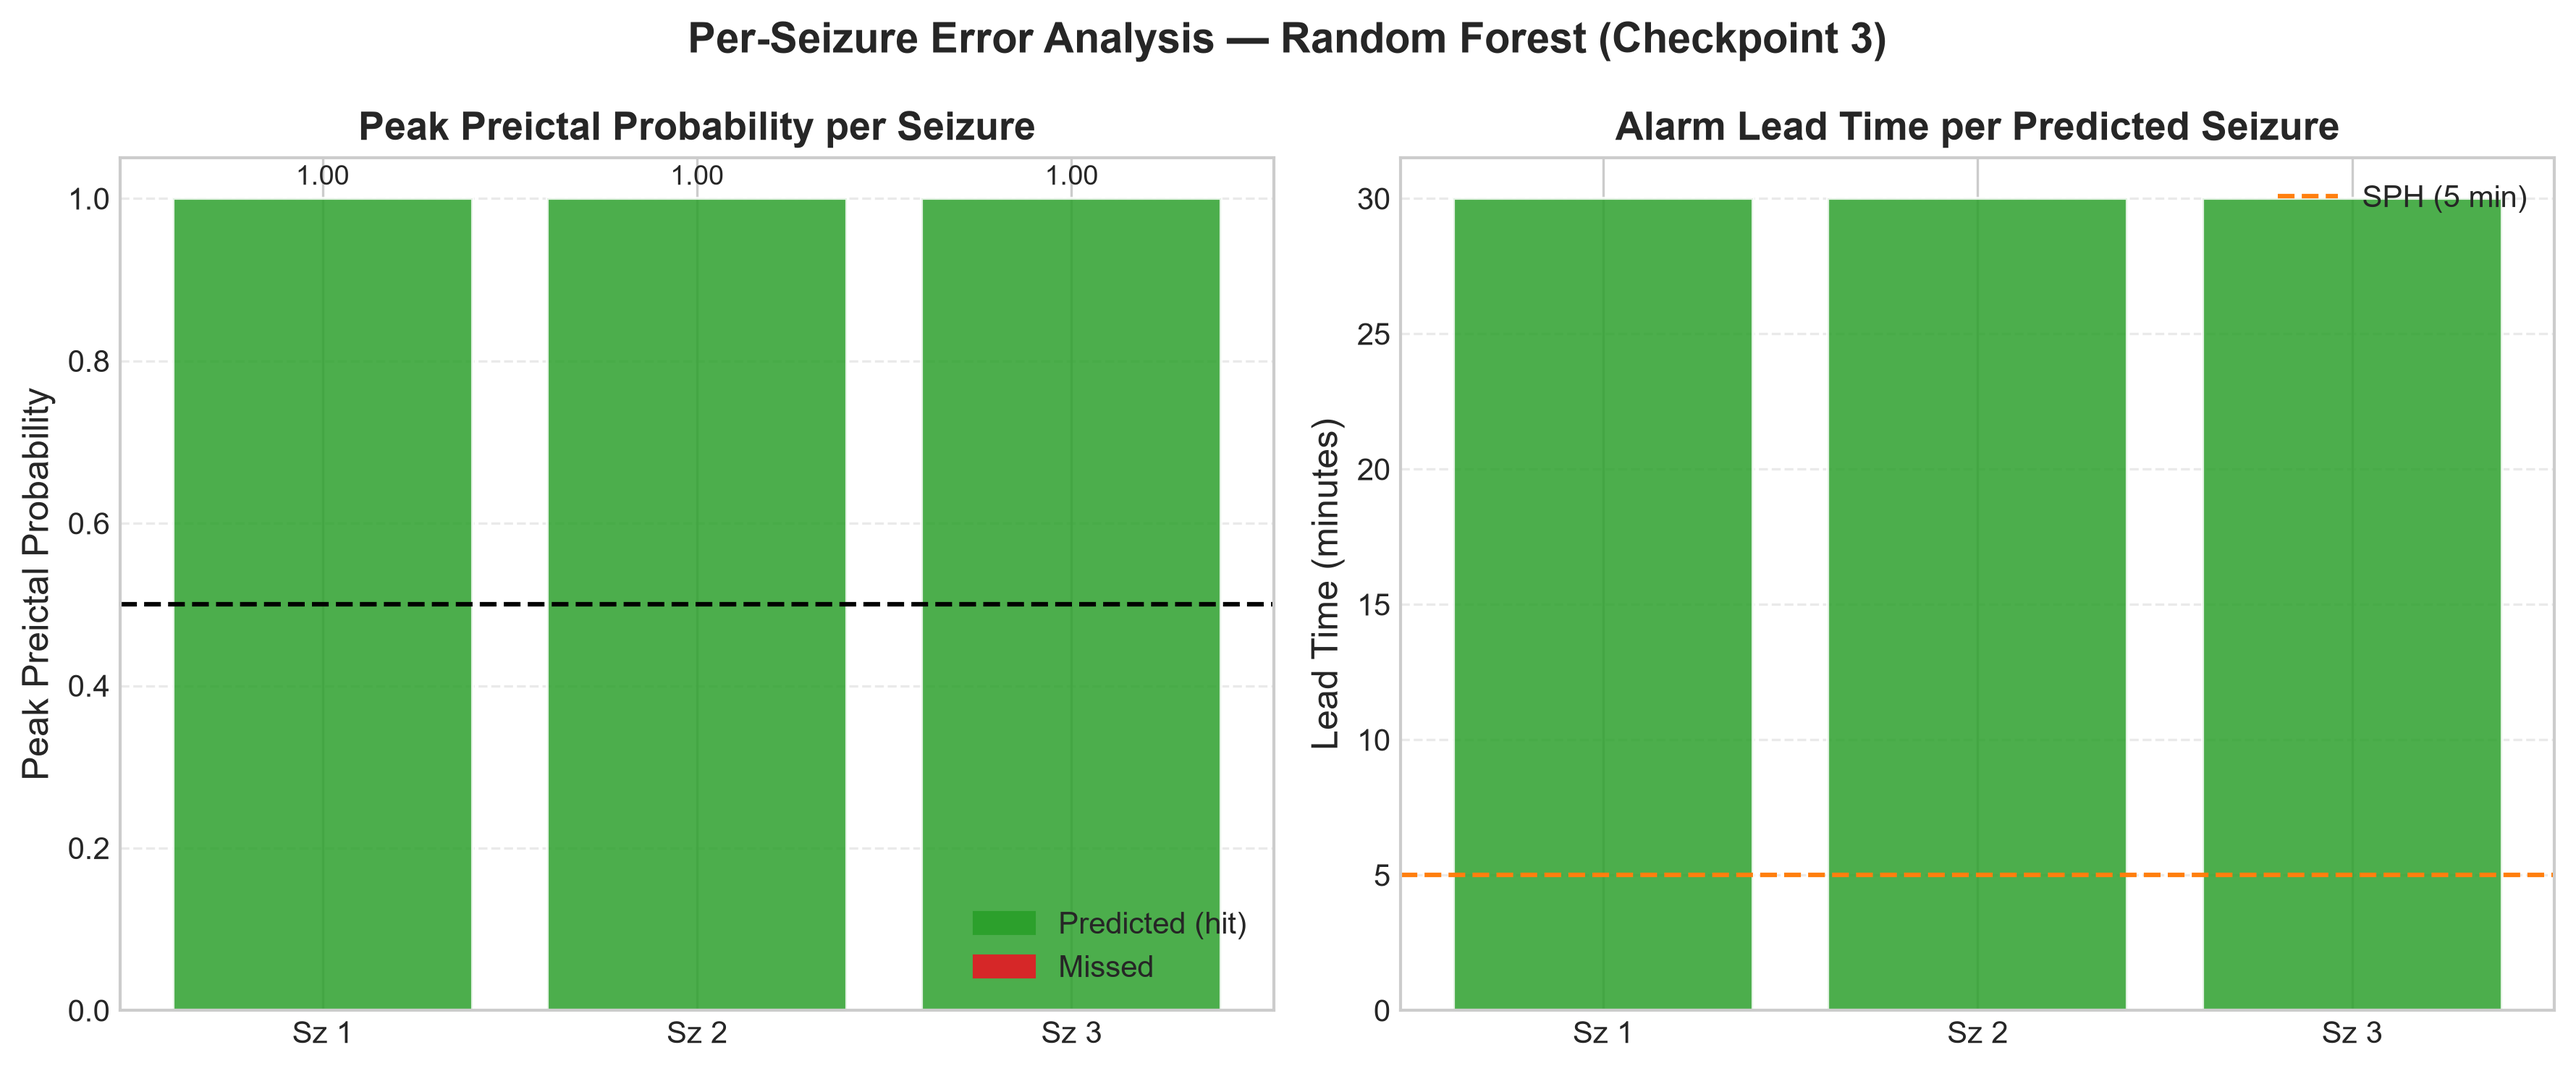
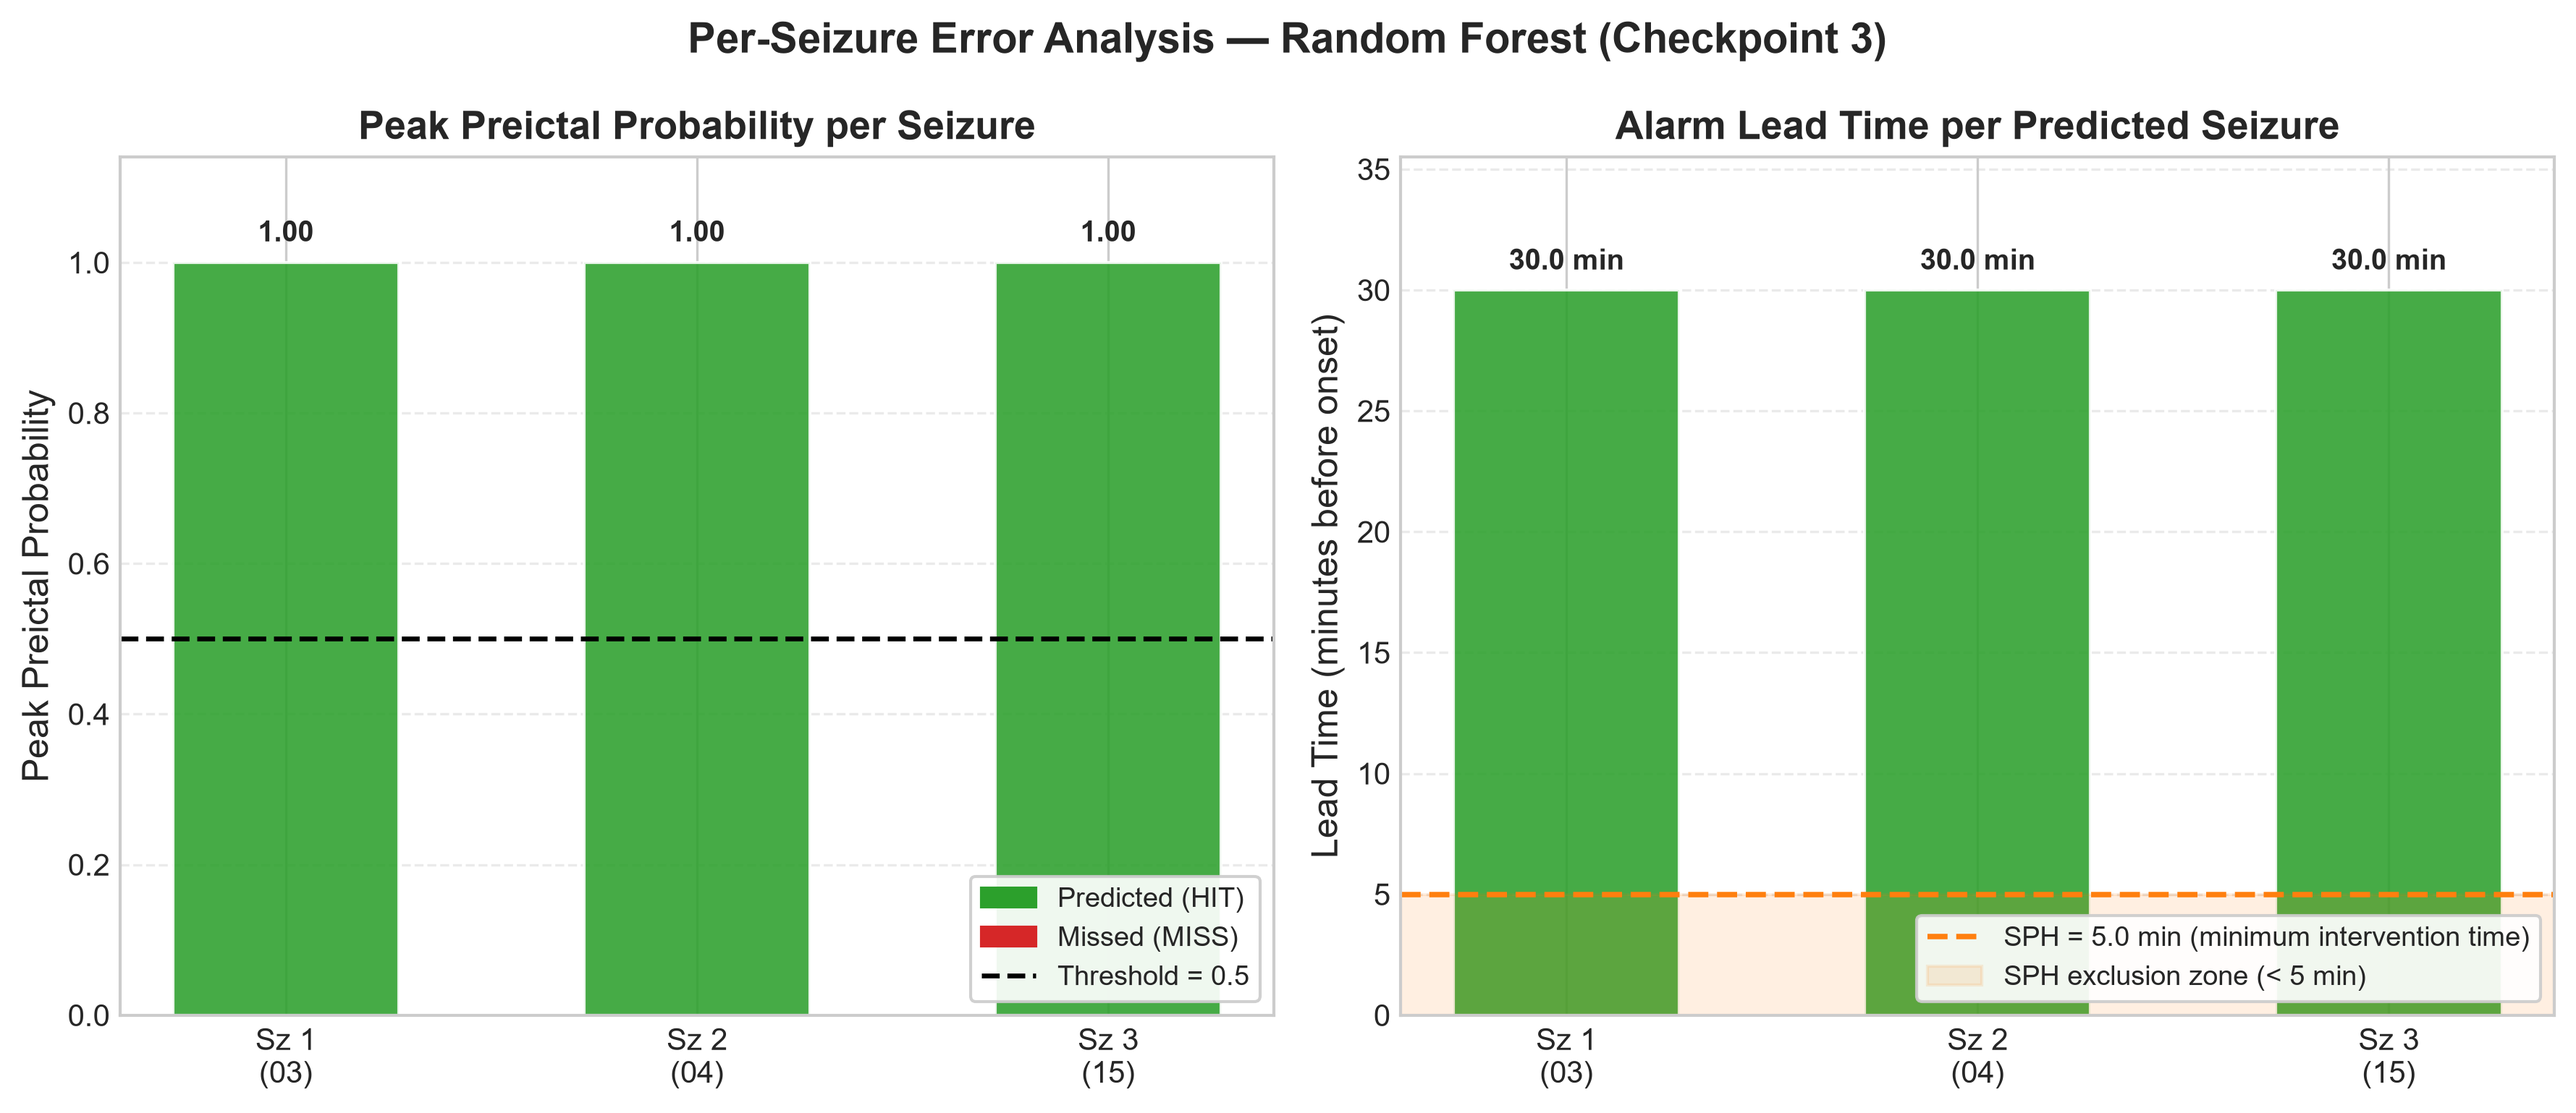
fix(cp3): fix ablation y-axis labels, lead-time histogram binning, and preictal alarm count

diff --git a/src/visualization/plots_cp3.py b/src/visualization/plots_cp3.py
@@ -58,8 +58,12 @@ def plot_per_seizure_breakdown(
     if n == 0:
         return
 
-    labels = [r['seizure_id'].split('_s')[-1] for r in per_seizure_results]
-    labels = [f"Sz {i+1}" for i, _ in enumerate(per_seizure_results)]
+    labels = []
+    for i, r in enumerate(per_seizure_results):
+        sid = r.get('seizure_id', '')
+        rec = sid.replace('chb01_', '').replace('_s0', '') if sid else f"Sz {i+1}"
+        labels.append(f"Sz {i+1}\n({rec})")
+
     peak_probs = [r['peak_preictal_prob'] for r in per_seizure_results]
     lead_times = [r['lead_time_min'] for r in per_seizure_results]
     predicted  = [r['predicted'] for r in per_seizure_results]
@@ -67,39 +71,45 @@ def plot_per_seizure_breakdown(
 
     x = np.arange(n)
 
-    fig, axes = plt.subplots(1, 2, figsize=(12, 5))
+    fig, axes = plt.subplots(1, 2, figsize=(12, 5.2))
     fig.suptitle(f"Per-Seizure Error Analysis — {model_name} (Checkpoint 3)", fontweight='bold')
 
     # Left: peak preictal probability
-    bars = axes[0].bar(x, peak_probs, color=colors, alpha=0.85, edgecolor='white')
-    axes[0].axhline(0.5, color='k', linestyle='--', lw=1.5, label='Threshold = 0.5')
+    bars = axes[0].bar(x, peak_probs, width=0.55, color=colors, alpha=0.88, edgecolor='white')
+    thresh_line = axes[0].axhline(0.5, color='k', linestyle='--', lw=1.6, label='Threshold = 0.5')
     axes[0].set_xticks(x)
     axes[0].set_xticklabels(labels)
     axes[0].set_ylabel("Peak Preictal Probability")
     axes[0].set_title("Peak Preictal Probability per Seizure", fontweight='bold')
-    axes[0].set_ylim(0, 1.05)
-    axes[0].legend()
+    axes[0].set_ylim(0, 1.14)
     axes[0].grid(True, linestyle='--', alpha=0.4, axis='y')
 
     for bar, v in zip(bars, peak_probs):
-        axes[0].text(bar.get_x() + bar.get_width() / 2, bar.get_height() + 0.01,
-                     f'{v:.2f}', ha='center', va='bottom', fontsize=9)
+        axes[0].text(bar.get_x() + bar.get_width() / 2, bar.get_height() + 0.02,
+                     f'{v:.2f}', ha='center', va='bottom', fontsize=9.5, fontweight='bold')
+
+    hit_patch  = mpatches.Patch(color='#2ca02c', label='Predicted (HIT)')
+    miss_patch = mpatches.Patch(color='#d62728', label='Missed (MISS)')
+    axes[0].legend(handles=[hit_patch, miss_patch, thresh_line],
+                   loc='lower right', frameon=True, facecolor='white', framealpha=0.92, fontsize=9)
 
     # Right: lead times (only for predicted)
     lead_vals = [lt if p else 0 for lt, p in zip(lead_times, predicted)]
     lt_colors = ['#2ca02c' if p else '#bbbbbb' for p in predicted]
-    bars2 = axes[1].bar(x, lead_vals, color=lt_colors, alpha=0.85, edgecolor='white')
-    axes[1].axhline(5, color='#ff7f0e', linestyle='--', lw=1.5, label='SPH (5 min)')
+    bars2 = axes[1].bar(x, lead_vals, width=0.55, color=lt_colors, alpha=0.88, edgecolor='white')
+    axes[1].axhline(5, color='#ff7f0e', linestyle='--', lw=1.8, label='SPH = 5.0 min (minimum intervention time)')
+    axes[1].axhspan(0, 5, color='#ff7f0e', alpha=0.12, label='SPH exclusion zone (< 5 min)')
     axes[1].set_xticks(x)
     axes[1].set_xticklabels(labels)
-    axes[1].set_ylabel("Lead Time (minutes)")
+    axes[1].set_ylabel("Lead Time (minutes before onset)")
     axes[1].set_title("Alarm Lead Time per Predicted Seizure", fontweight='bold')
-    axes[1].legend()
+    axes[1].set_ylim(0, max(35.5, max(lead_vals) * 1.18))
+    axes[1].legend(loc='lower right', frameon=True, facecolor='white', framealpha=0.92, fontsize=9)
     axes[1].grid(True, linestyle='--', alpha=0.4, axis='y')
 
-    hit_patch  = mpatches.Patch(color='#2ca02c', label='Predicted (hit)')
-    miss_patch = mpatches.Patch(color='#d62728', label='Missed')
-    axes[0].legend(handles=[hit_patch, miss_patch], loc='lower right')
+    for bar, v in zip(bars2, lead_vals):
+        axes[1].text(bar.get_x() + bar.get_width() / 2, bar.get_height() + 0.6,
+                     f'{v:.1f} min', ha='center', va='bottom', fontsize=9.5, fontweight='bold')
 
     plt.tight_layout()
     _save_or_show(fig, output_path)
@@ -122,16 +132,40 @@ def plot_lead_time_histogram(
     if not lead_times:
         return
 
-    fig, ax = plt.subplots(figsize=(8, 5))
+    fig, ax = plt.subplots(figsize=(8.5, 5))
 
-    ax.hist(lead_times, bins=max(5, len(lead_times) // 2),
-            color='#2ca02c', alpha=0.8, edgecolor='white', label='Lead Time (min)')
-    ax.axvline(sph_min, color='#d62728', linestyle='--', lw=2,
-               label=f'SPH = {sph_min} min (clinically required minimum)')
-    ax.axvline(lead_time_stats.get('mean_lead_time_min', 0),
-               color='#1f77b4', linestyle='-', lw=2,
-               label=f"Mean = {lead_time_stats.get('mean_lead_time_min', 0):.1f} min")
+    # Explicit clinical 2-minute bins centered on even values (e.g., [29, 31] centered at 30.0 min)
+    bins = np.arange(1.0, 35.0, 2.0)
+    counts, edges, patches = ax.hist(
+        lead_times, bins=bins, rwidth=0.82,
+        color='#2ca02c', alpha=0.85, edgecolor='white', linewidth=1.2,
+        label='Predicted Seizures (Lead Time)', zorder=3
+    )
 
+    ax.axvspan(0, sph_min, color='#d62728', alpha=0.10, label=f'SPH Exclusion Zone (< {sph_min:.0f} min)')
+    ax.axvspan(sph_min, 35, color='#2ca02c', alpha=0.05, label=f'Actionable SOP Window ({sph_min:.0f}–35 min)')
+    ax.axvline(sph_min, color='#d62728', linestyle='--', lw=2.0,
+               label=f'SPH = {sph_min:.1f} min (clinically required minimum)', zorder=4)
+
+    mean_lt = float(lead_time_stats.get('mean_lead_time_min', np.mean(lead_times)))
+    ax.axvline(mean_lt, color='#1f77b4', linestyle=':', lw=2.2,
+               label=f"Mean Lead Time = {mean_lt:.1f} min", zorder=4)
+
+    # Annotate non-zero histogram bars
+    for count, left, right in zip(counts, edges[:-1], edges[1:]):
+        if count > 0:
+            center = 0.5 * (left + right)
+            ax.text(
+                center, count + 0.14,
+                f"n = {int(count)}/{lead_time_stats.get('n_total', len(lead_times))} seizures\n({mean_lt:.1f} min)",
+                ha='center', va='bottom', fontsize=9.5, fontweight='bold', color='#1b6ca8',
+                bbox=dict(boxstyle='round,pad=0.2', facecolor='white', edgecolor='#1b6ca8', alpha=0.9),
+                zorder=5
+            )
+
+    ax.set_xlim(0, 35)
+    ax.set_ylim(0, max(counts) + 0.85)
+    ax.set_yticks(range(0, int(max(counts)) + 2))
     ax.set_xlabel("Alarm Lead Time (minutes before seizure onset)")
     ax.set_ylabel("Number of Seizures")
     ax.set_title(
@@ -140,7 +174,7 @@ def plot_lead_time_histogram(
         f"({lead_time_stats.get('frac_above_sph', 0)*100:.0f}% with clinically sufficient lead time > {sph_min} min)",
         fontweight='bold'
     )
-    ax.legend()
+    ax.legend(loc='upper left', frameon=True, facecolor='white', framealpha=0.92, fontsize=9)
     ax.grid(True, linestyle='--', alpha=0.4)
 
     plt.tight_layout()
@@ -198,48 +232,78 @@ def plot_false_alarm_iai(
 # 4. Biomarker Ablation Study
 # ---------------------------------------------------------------------------
 
+_ABLATION_LABELS = {
+    'ablate_band_power': 'All Band Powers (δ–γ)',
+    'ablate_gamma':      'Gamma Power (30–45 Hz)',
+    'ablate_beta':       'Beta Power (13–30 Hz)',
+    'ablate_alpha':      'Alpha Power (8–13 Hz)',
+    'ablate_theta':      'Theta Power (4–8 Hz)',
+    'ablate_delta':      'Delta Power (0.5–4 Hz)',
+    'ablate_slow_fast':  'Slow / Fast Band Ratio',
+    'ablate_entropy':    'Spectral Entropy',
+    'ablate_hjorth':     'Hjorth Parameters (Act/Mob/Comp)',
+}
+
 def plot_ablation_study(
     ablation_results: Dict[str, Dict[str, float]],
     output_path: Optional[Path] = None
 ):
     """
     Horizontal bar chart of ΔAUC caused by ablating each biomarker group.
-    A large negative ΔAUC means that group is important for prediction.
+    A negative ΔAUC means removing that group degrades performance (important feature group).
     """
     baseline_auc = ablation_results.get('all_features', {}).get('auc_mean', 0.0)
 
-    groups = [(name, v['delta_auc'])
+    groups = [(name, float(v['delta_auc']))
               for name, v in ablation_results.items()
               if name != 'all_features']
 
     if not groups:
         return
 
-    groups.sort(key=lambda x: x[1])   # Most harmful ablation first
-    names = [g[0].replace('ablate_', '').replace('_', ' ').title() for g, _ in groups]
+    groups.sort(key=lambda x: x[1])   # Most harmful ablation (most negative ΔAUC) at bottom
+    names = [
+        _ABLATION_LABELS.get(g_name, g_name.replace('ablate_', '').replace('_', ' ').title())
+        for g_name, _ in groups
+    ]
     deltas = [d for _, d in groups]
 
-    colors = ['#d62728' if d < -0.01 else '#7f7f7f' for d in deltas]
+    colors = ['#d62728' if d < 0 else '#5c768d' for d in deltas]
 
-    fig, ax = plt.subplots(figsize=(9, max(4, len(groups) * 0.5)))
+    fig, ax = plt.subplots(figsize=(9.5, max(4.5, len(groups) * 0.55)))
     y_pos = np.arange(len(groups))
 
-    ax.barh(y_pos, deltas, color=colors, alpha=0.85, edgecolor='white')
-    ax.axvline(0, color='black', lw=1.5, linestyle='--')
+    ax.barh(y_pos, deltas, height=0.68, color=colors, alpha=0.88, edgecolor='white')
+    ax.axvline(0, color='black', lw=1.6, linestyle='--')
     ax.set_yticks(y_pos)
-    ax.set_yticklabels(names)
-    ax.set_xlabel("ΔAUC vs. Full Feature Set (negative = important feature group)")
+    ax.set_yticklabels(names, fontsize=10)
+    ax.set_xlabel("ΔAUC-ROC vs. Full Feature Set (negative = performance drop when removed)")
     ax.set_title(
-        f"Biomarker Ablation Study — Impact on AUC-ROC\n"
-        f"Baseline (all features) AUC = {baseline_auc:.4f}",
+        f"Biomarker Ablation Study — Impact on LOSO AUC-ROC\n"
+        f"Full Feature Set Baseline AUC = {baseline_auc:.4f}",
         fontweight='bold'
     )
     ax.grid(True, linestyle='--', alpha=0.4, axis='x')
 
-    for i, (d, name) in enumerate(zip(deltas, names)):
-        ax.text(d - 0.001 if d < 0 else d + 0.001, i,
-                f'{d:+.4f}', va='center',
-                ha='right' if d < 0 else 'left', fontsize=9)
+    max_abs = max(max(abs(d) for d in deltas), 1e-4)
+    offset = 0.04 * max_abs
+    min_d = min(deltas)
+    max_d = max(deltas)
+    ax.set_xlim(min(min_d - 0.28 * max_abs, -0.0005), max(max_d + 0.28 * max_abs, 0.0005))
+
+    for i, d in enumerate(deltas):
+        x_txt = d - offset if d < 0 else d + offset
+        ax.text(
+            x_txt, i, f'{d:+.4f}',
+            va='center', ha='right' if d < 0 else 'left',
+            fontsize=9.5, fontweight='bold',
+            color='#b30000' if d < 0 else '#334e68'
+        )
+
+    neg_patch = mpatches.Patch(color='#d62728', alpha=0.88, label='AUC degradation (essential biomarker group)')
+    pos_patch = mpatches.Patch(color='#5c768d', alpha=0.88, label='Neutral / slight regularization gain when ablated')
+    ax.legend(handles=[neg_patch, pos_patch], loc='lower right',
+              frameon=True, facecolor='white', framealpha=0.92, fontsize=9)
 
     plt.tight_layout()
     _save_or_show(fig, output_path)
@@ -258,28 +322,42 @@ def plot_channel_heatmap(
     anatomically (frontal → temporal → parietal → occipital chains).
     """
     channels = list(channel_results.keys())
-    aucs = [channel_results[ch]['auc_mean'] for ch in channels]
+    aucs = np.array([channel_results[ch]['auc_mean'] for ch in channels], dtype=float)
 
-    # Arrange by scalp region (CHB-MIT bipolar montage layout)
-    fig, ax = plt.subplots(figsize=(12, 5))
+    fig, ax = plt.subplots(figsize=(13, 5.2))
 
-    colors = plt.cm.RdYlGn(
-        [(a - min(aucs)) / max(max(aucs) - min(aucs), 1e-6) for a in aucs]
-    )
+    norm = plt.Normalize(vmin=float(aucs.min()), vmax=float(aucs.max()))
+    cmap = plt.cm.RdYlGn
+    colors = cmap(norm(aucs))
 
-    bars = ax.bar(np.arange(len(channels)), aucs, color=colors, alpha=0.9, edgecolor='white')
-    ax.set_xticks(np.arange(len(channels)))
-    ax.set_xticklabels(channels, rotation=45, ha='right', fontsize=8)
-    ax.set_ylabel("AUC-ROC (channel-only model)")
+    x = np.arange(len(channels))
+    bars = ax.bar(x, aucs, width=0.72, color=colors, alpha=0.92, edgecolor='#444444', linewidth=0.6)
+    ax.set_xticks(x)
+    ax.set_xticklabels(channels, rotation=35, ha='right', fontsize=9.5, fontweight='bold')
+    ax.set_ylabel("Single-Channel LOSO AUC-ROC")
     ax.set_title(
-        "Spatial Channel Importance — AUC from Single-Channel Feature Set\n"
-        "(Green = high discriminability; Red = low discriminability)",
+        "Spatial Channel Importance — LOSO AUC from Single-Channel Biomarkers\n"
+        "(Green = highest predictive discriminability; Red = lowest discriminability)",
         fontweight='bold'
     )
-    ax.set_ylim(0.4, 1.05)
-    ax.axhline(0.5, color='k', linestyle='--', lw=1.2, alpha=0.5, label='Chance (AUC=0.5)')
+    y_min = max(0.80, float(np.floor((aucs.min() - 0.04) * 20) / 20))
+    ax.set_ylim(y_min, 1.025)
+    ax.axhline(0.9911, color='#1f77b4', linestyle='--', lw=1.6, alpha=0.85,
+               label='Full 17-Channel RF Model (AUC = 0.9911)')
     ax.grid(True, linestyle='--', alpha=0.4, axis='y')
-    ax.legend()
+
+    for bar, v in zip(bars, aucs):
+        ax.text(
+            bar.get_x() + bar.get_width() / 2, v + 0.003,
+            f'{v:.3f}', ha='center', va='bottom', fontsize=8, fontweight='bold', rotation=0
+        )
+
+    sm = plt.cm.ScalarMappable(cmap=cmap, norm=norm)
+    sm.set_array([])
+    cbar = fig.colorbar(sm, ax=ax, pad=0.015, aspect=25)
+    cbar.set_label("Single-Channel AUC-ROC", fontsize=9.5)
+
+    ax.legend(loc='lower right', frameon=True, facecolor='white', framealpha=0.92, fontsize=9.5)
 
     plt.tight_layout()
     _save_or_show(fig, output_path)

diff --git a/src/evaluation/error_analysis.py b/src/evaluation/error_analysis.py
@@ -107,7 +107,7 @@ def per_seizure_breakdown(
             'predicted': bool(alarm_triggered),
             'lead_time_sec': float(lead_time_sec),
             'lead_time_min': float(lead_time_sec / 60.0),
-            'n_alarms_in_preictal': int(alarm_indices.sum()) if alarm_triggered else 0,
+            'n_alarms_in_preictal': int(len(alarm_indices)) if alarm_triggered else 0,
             'peak_preictal_prob': float(probs_in_preictal.max()),
             'mean_preictal_prob': float(probs_in_preictal.mean()),
         })
